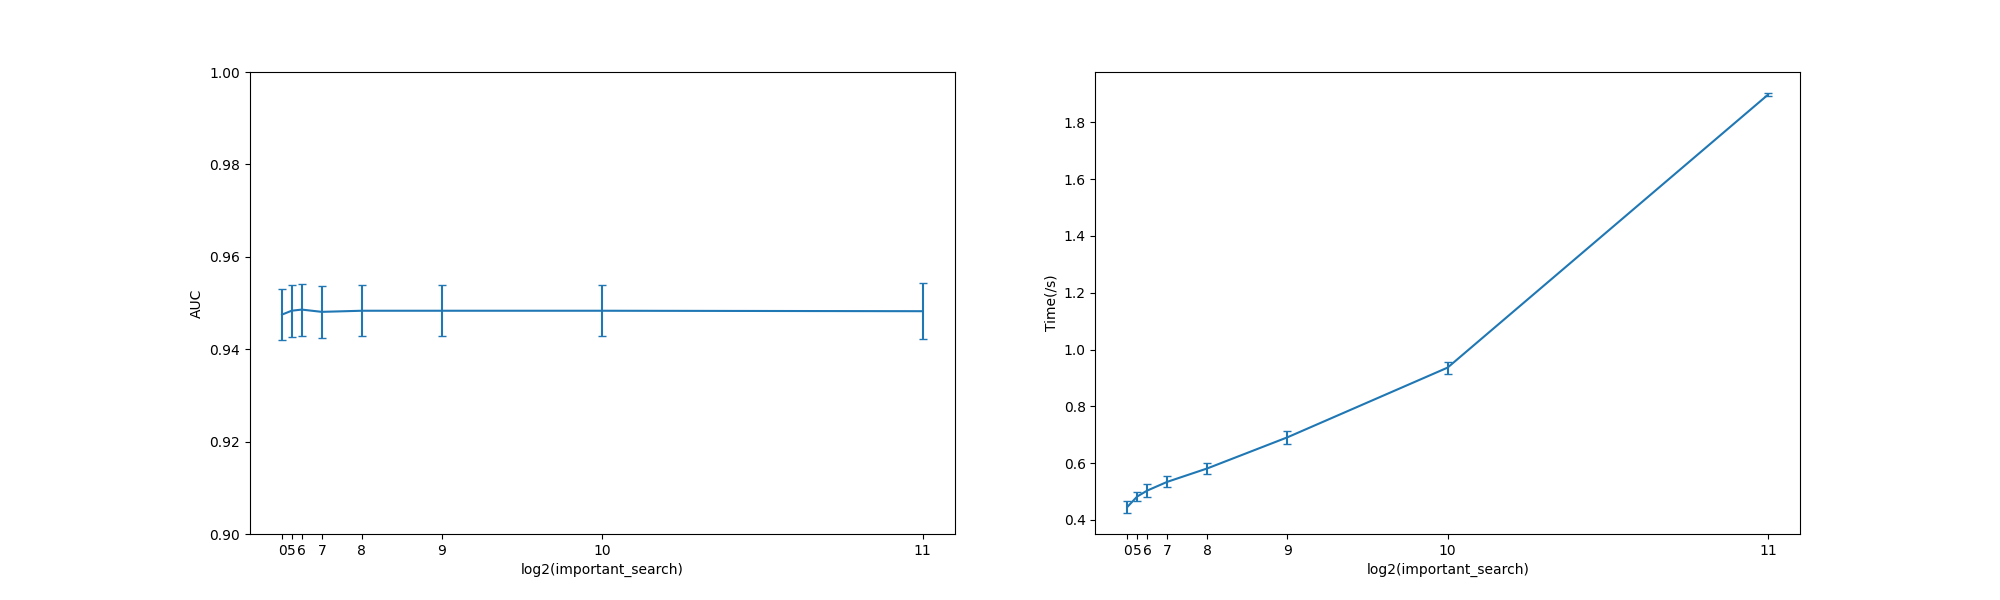
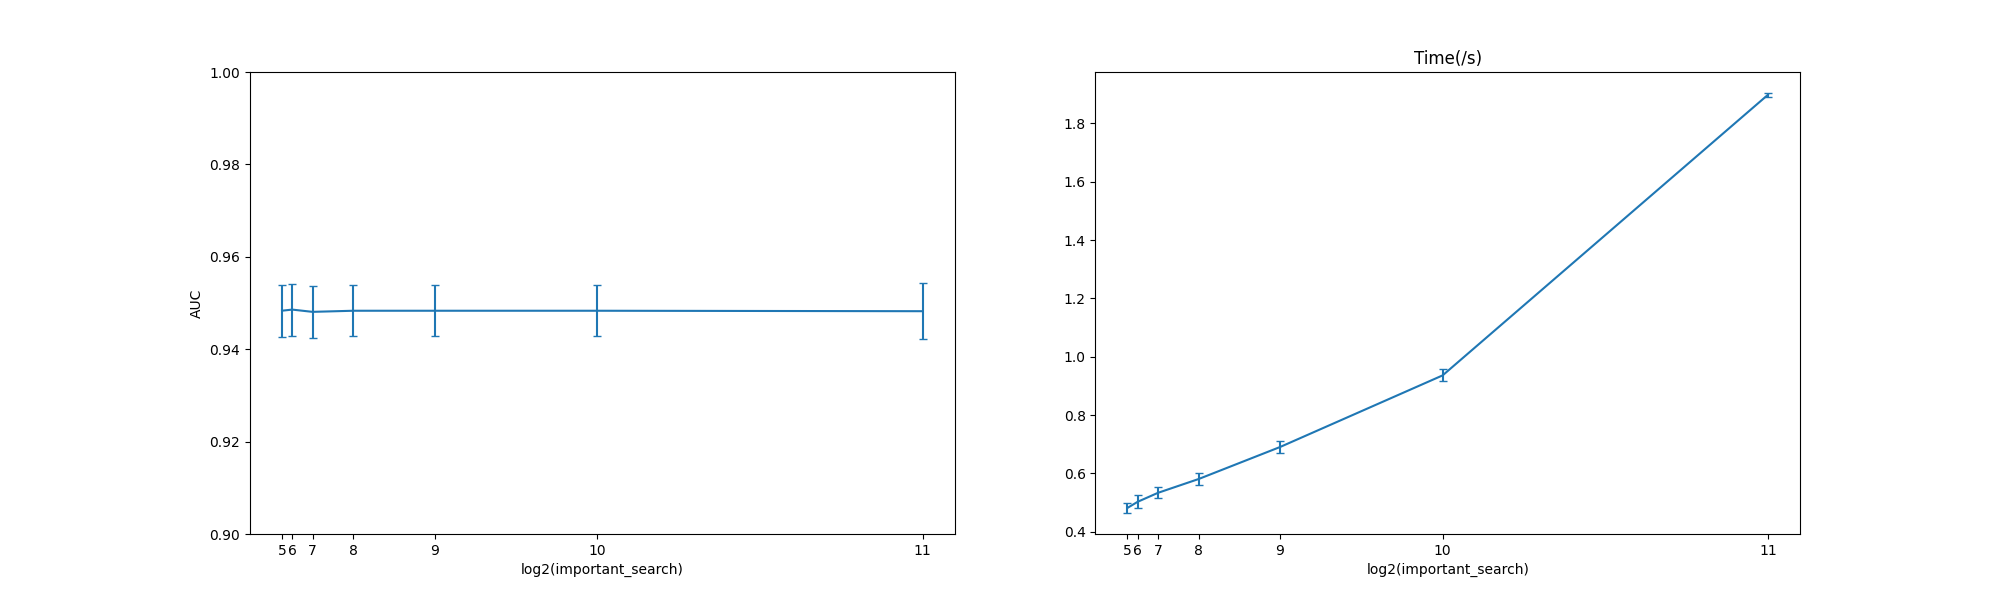
update important_search figure

diff --git a/python/example/impsearch.py b/python/example/impsearch.py
@@ -12,7 +12,7 @@ p = 2000
 k = 20
 rho = 0.1
 M = 50
-search_path = [1, 2, 4, 8, 16, 32, 64, 128, 256, 512, 1024, 2048]
+search_path = [32, 64, 128, 256, 512, 1024, 2048]
 
 met_save = True
 res_save = True
@@ -48,8 +48,6 @@ if (res_save):
 
 if (figure_save):
     res = np.load("res.npy")
-    ind = [0, 5, 6, 7, 8, 9, 10, 11]
-    res = res[ind]
     # print(res)
 
     plt.figure(figsize = (20, 6))
